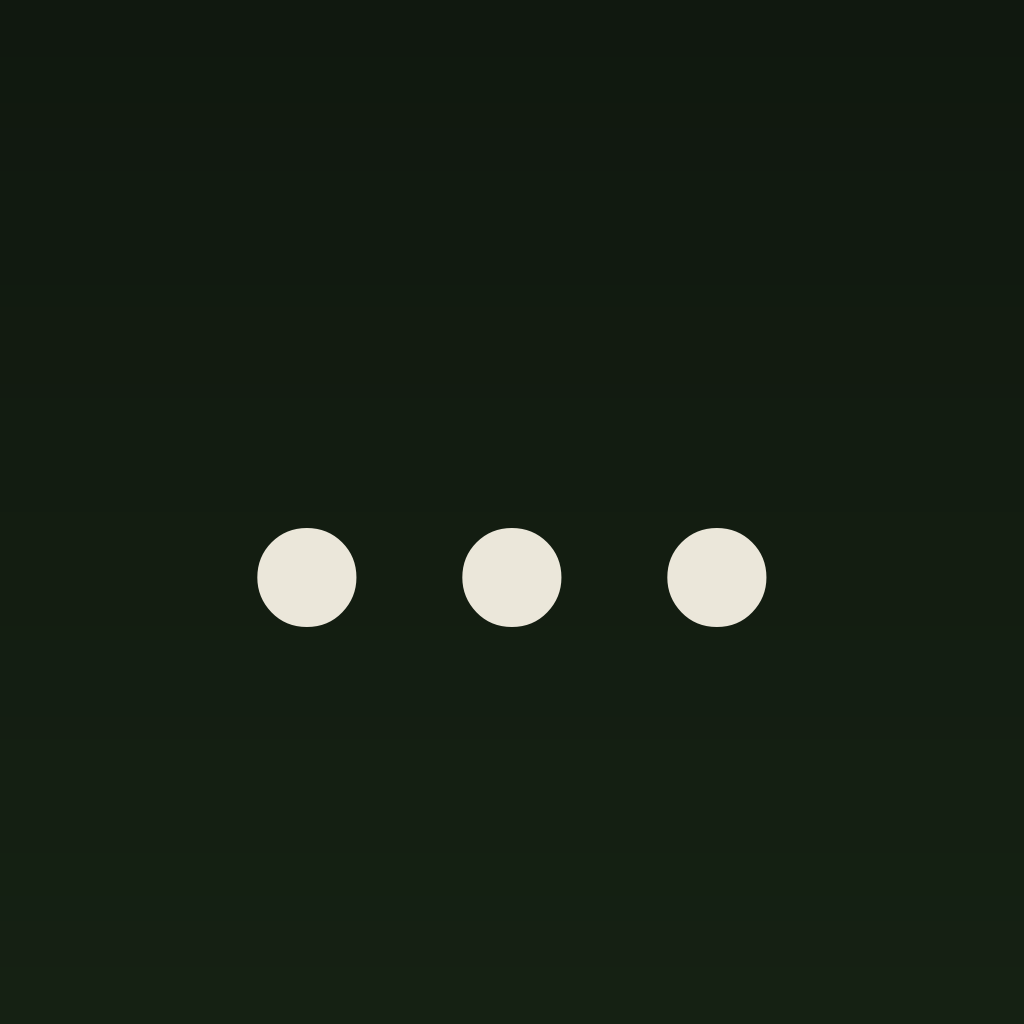
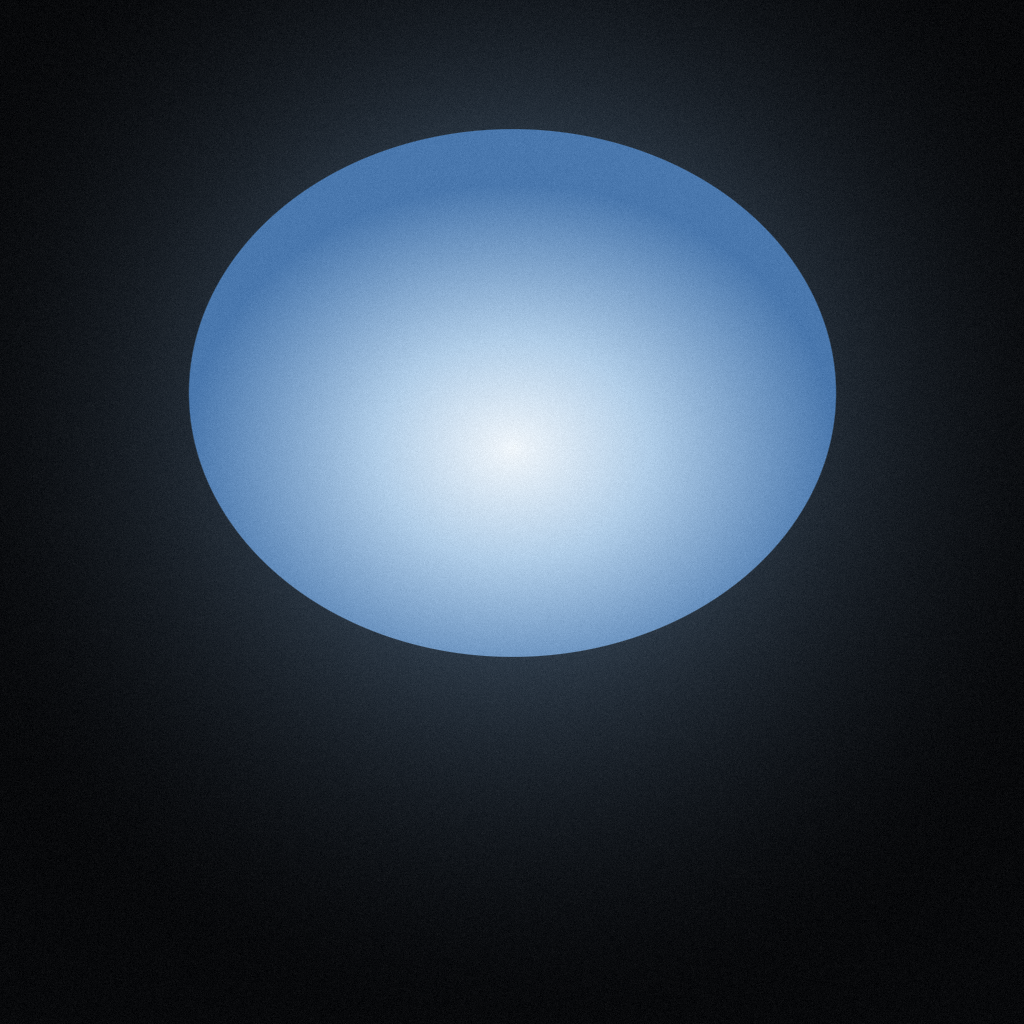
feat: refine recorder launch and glass controls

diff --git a/artifacts/voice-recorder/app/record.tsx b/artifacts/voice-recorder/app/record.tsx
@@ -13,6 +13,7 @@ import {
   View,
 } from "react-native";
 import { Audio, InterruptionModeIOS } from "expo-av";
+import { BlurView } from "expo-blur";
 import * as FileSystem from "expo-file-system/legacy";
 import * as Haptics from "expo-haptics";
 import * as Location from "expo-location";
@@ -98,6 +99,36 @@ async function withTimeout<T>(
   const result = await Promise.race([promise, timeoutResult]);
   if (timeout) clearTimeout(timeout);
   return result;
+}
+
+async function waitForActiveAudioSession(): Promise<void> {
+  if (Platform.OS !== "ios") return;
+
+  if (AppState.currentState !== "active") {
+    await new Promise<void>((resolve) => {
+      let subscription: ReturnType<typeof AppState.addEventListener> | null =
+        null;
+      const finish = () => {
+        subscription?.remove();
+        resolve();
+      };
+      subscription = AppState.addEventListener("change", (state) => {
+        if (state !== "active") return;
+        finish();
+      });
+      // Avoid missing the transition between the initial check and listener.
+      if (AppState.currentState === "active") finish();
+    });
+  }
+
+  // iOS reports the React Native app as active just before AVAudioSession can
+  // reliably be activated when entering through a deep link / Action Button.
+  await new Promise<void>((resolve) => setTimeout(resolve, 180));
+}
+
+function isBackgroundAudioSessionError(error: unknown): boolean {
+  const message = error instanceof Error ? error.message : String(error);
+  return /background|audio session could not be activated/i.test(message);
 }
 
 function metadataUriFor(localUri: string): string {
@@ -326,9 +357,14 @@ function StopButton({
         accessibilityLabel="Aufnahme stoppen"
         disabled={disabled}
         onPress={onPress}
-        style={({ pressed }) => [styles.stopRing, pressed && styles.pressed]}
+        style={({ pressed }) => [
+          styles.stopPressable,
+          pressed && styles.stopPressed,
+        ]}
       >
-        <View style={styles.stopSquare} />
+        <BlurView intensity={34} tint="light" style={styles.stopGlass}>
+          <View style={styles.stopSquare} />
+        </BlurView>
       </Pressable>
     </View>
   );
@@ -442,48 +478,65 @@ function RecorderScreen() {
     if (startingRef.current || recordingRef.current) return;
     startingRef.current = true;
     try {
-      await Audio.setAudioModeAsync({
-        allowsRecordingIOS: true,
-        playsInSilentModeIOS: true,
-        interruptionModeIOS: InterruptionModeIOS.DoNotMix,
-      });
-      const { recording } = await Audio.Recording.createAsync(
-        {
-          ...Audio.RecordingOptionsPresets.HIGH_QUALITY,
-          isMeteringEnabled: true,
-        },
-        (status) => {
-          if (!status.isRecording) return;
-          setDurationMs(status.durationMillis ?? 0);
-          const target = meteringToAmplitude(status.metering);
-          const current = smoothedLevelRef.current;
-          const response = target > current ? 0.82 : 0.26;
-          const nextLevel = current + (target - current) * response;
-          const settledLevel = nextLevel < 0.012 ? 0 : nextLevel;
-          smoothedLevelRef.current = settledLevel;
+      const onRecordingStatusUpdate = (status: Audio.RecordingStatus) => {
+        if (!status.isRecording) return;
+        setDurationMs(status.durationMillis ?? 0);
+        const target = meteringToAmplitude(status.metering);
+        const current = smoothedLevelRef.current;
+        const response = target > current ? 0.82 : 0.26;
+        const nextLevel = current + (target - current) * response;
+        const settledLevel = nextLevel < 0.012 ? 0 : nextLevel;
+        smoothedLevelRef.current = settledLevel;
 
-          const history = [
-            settledLevel,
-            ...levelHistoryRef.current.slice(0, WAVE_HISTORY_POINTS - 1),
-          ];
-          levelHistoryRef.current = history;
+        const history = [
+          settledLevel,
+          ...levelHistoryRef.current.slice(0, WAVE_HISTORY_POINTS - 1),
+        ];
+        levelHistoryRef.current = history;
 
-          const mirrored = [
-            ...history.slice(1).reverse(),
-            history[0],
-            ...history.slice(1),
-          ];
-          const center = (mirrored.length - 1) / 2;
-          setAmplitudes(
-            mirrored.map((sample, index) => {
-              const distance = Math.abs(index - center) / center;
-              const envelope = 0.28 + 0.72 * (1 - Math.pow(distance, 1.45));
-              return sample * envelope;
-            }),
+        const mirrored = [
+          ...history.slice(1).reverse(),
+          history[0],
+          ...history.slice(1),
+        ];
+        const center = (mirrored.length - 1) / 2;
+        setAmplitudes(
+          mirrored.map((sample, index) => {
+            const distance = Math.abs(index - center) / center;
+            const envelope = 0.28 + 0.72 * (1 - Math.pow(distance, 1.45));
+            return sample * envelope;
+          }),
+        );
+      };
+
+      let recording: Audio.Recording | null = null;
+      for (let attempt = 0; attempt < 2 && !recording; attempt += 1) {
+        await waitForActiveAudioSession();
+        try {
+          await Audio.setAudioModeAsync({
+            allowsRecordingIOS: true,
+            playsInSilentModeIOS: true,
+            interruptionModeIOS: InterruptionModeIOS.DoNotMix,
+          });
+          const created = await Audio.Recording.createAsync(
+            {
+              ...Audio.RecordingOptionsPresets.HIGH_QUALITY,
+              isMeteringEnabled: true,
+            },
+            onRecordingStatusUpdate,
+            65,
           );
-        },
-        65,
-      );
+          recording = created.recording;
+        } catch (error) {
+          await Audio.setAudioModeAsync({ allowsRecordingIOS: false }).catch(
+            () => undefined,
+          );
+          if (attempt === 0 && isBackgroundAudioSessionError(error)) continue;
+          throw error;
+        }
+      }
+
+      if (!recording) throw new Error("Die Audio-Session ist nicht verfügbar.");
       recordingRef.current = recording;
       setScreenState("recording");
       if (locationEnabledRef.current) {
@@ -966,7 +1019,11 @@ function RecorderScreen() {
             pressed && styles.pressed,
           ]}
         >
-          <Ionicons name="trash-outline" size={21} color={C.ivory60} />
+          <Ionicons
+            name="trash-outline"
+            size={21}
+            color="rgba(255,255,255,0.72)"
+          />
         </Pressable>
         <StopButton disabled={!isActive} onPress={stopRecording} />
       </View>
@@ -984,7 +1041,7 @@ const styles = StyleSheet.create({
     flex: 1,
     alignItems: "center",
     justifyContent: "center",
-    gap: 30,
+    gap: 28,
     transform: [{ translateY: -16 }],
   },
   topBar: {
@@ -1000,8 +1057,8 @@ const styles = StyleSheet.create({
   },
   brand: {
     fontFamily: SERIF,
-    fontSize: 12,
-    color: C.ivory60,
+    fontSize: 13,
+    color: "rgba(255,255,255,0.72)",
   },
   status: {
     fontFamily: SERIF_ITALIC,
@@ -1011,10 +1068,10 @@ const styles = StyleSheet.create({
   timer: {
     minWidth: 235,
     fontFamily: SANS,
-    fontSize: 72,
+    fontSize: 68,
     fontWeight: "300",
     letterSpacing: 1,
-    color: C.ivory,
+    color: "rgba(255,255,255,0.92)",
     fontVariant: ["tabular-nums"],
     includeFontPadding: false,
     textAlign: "center",
@@ -1031,13 +1088,13 @@ const styles = StyleSheet.create({
     position: "absolute",
     width: 174,
     height: StyleSheet.hairlineWidth,
-    backgroundColor: C.ivory12,
+    backgroundColor: "rgba(255,255,255,0.18)",
   },
   waveBar: {
     width: 2.4,
     height: 68,
     borderRadius: 2,
-    backgroundColor: C.sage,
+    backgroundColor: "rgba(239,247,252,0.96)",
   },
   bottomControls: {
     width: "100%",
@@ -1060,12 +1117,23 @@ const styles = StyleSheet.create({
     alignItems: "center",
     justifyContent: "center",
   },
-  stopRing: {
+  stopPressable: {
     width: 84,
     height: 84,
     borderRadius: 42,
+    shadowColor: "#24455F",
+    shadowOpacity: 0.2,
+    shadowRadius: 18,
+    shadowOffset: { width: 0, height: 8 },
+    elevation: 7,
+  },
+  stopGlass: {
+    flex: 1,
+    borderRadius: 42,
+    overflow: "hidden",
     borderWidth: 1,
-    borderColor: C.ivory30,
+    borderColor: "rgba(255,255,255,0.52)",
+    backgroundColor: "rgba(255,255,255,0.13)",
     alignItems: "center",
     justifyContent: "center",
   },
@@ -1073,8 +1141,13 @@ const styles = StyleSheet.create({
     width: 22,
     height: 22,
     borderRadius: 5,
-    backgroundColor: C.ivory,
+    backgroundColor: "rgba(255,255,255,0.92)",
+    shadowColor: "#24455F",
+    shadowOpacity: 0.14,
+    shadowRadius: 5,
+    shadowOffset: { width: 0, height: 2 },
   },
+  stopPressed: { opacity: 0.88, transform: [{ scale: 0.96 }] },
   disabled: { opacity: 0.42 },
   pressed: { opacity: 0.68 },
   messageContent: {

diff --git a/artifacts/voice-recorder/app/thoughts/index.tsx b/artifacts/voice-recorder/app/thoughts/index.tsx
@@ -18,6 +18,7 @@ import {
   View,
 } from "react-native";
 import { Ionicons } from "@expo/vector-icons";
+import { GlassView } from "expo-glass-effect";
 import * as Haptics from "expo-haptics";
 import { type Href, useFocusEffect, useRouter } from "expo-router";
 import { useSafeAreaInsets } from "react-native-safe-area-context";
@@ -665,9 +666,15 @@ export default function ThoughtsFeedScreen() {
             pressed && styles.recordButtonPressed,
           ]}
         >
-          <View style={styles.recordButtonInner}>
-            <Ionicons name="mic" size={25} color={C.card} />
-          </View>
+          <GlassView
+            colorScheme="light"
+            glassEffectStyle="regular"
+            isInteractive
+            style={styles.recordButtonGlass}
+            tintColor="rgba(127,176,214,0.22)"
+          >
+            <Ionicons name="mic" size={24} color={C.skyDeep} />
+          </GlassView>
         </Pressable>
       )}
 
@@ -845,26 +852,20 @@ const styles = StyleSheet.create({
   recordButtonOuter: {
     position: "absolute",
     left: "50%",
-    marginLeft: -39,
-    width: 78,
-    height: 78,
-    borderRadius: 39,
-    backgroundColor: C.card,
-    alignItems: "center",
-    justifyContent: "center",
-    borderWidth: 1,
-    borderColor: C.border,
-    shadowColor: C.ink,
-    shadowOpacity: 0.18,
-    shadowRadius: 16,
-    shadowOffset: { width: 0, height: 7 },
-    elevation: 8,
+    marginLeft: -37,
+    width: 74,
+    height: 74,
+    borderRadius: 37,
+    shadowColor: C.skyDeep,
+    shadowOpacity: 0.12,
+    shadowRadius: 14,
+    shadowOffset: { width: 0, height: 6 },
+    elevation: 6,
   },
-  recordButtonInner: {
-    width: 58,
-    height: 58,
-    borderRadius: 29,
-    backgroundColor: C.ink,
+  recordButtonGlass: {
+    flex: 1,
+    borderRadius: 37,
+    overflow: "hidden",
     alignItems: "center",
     justifyContent: "center",
   },